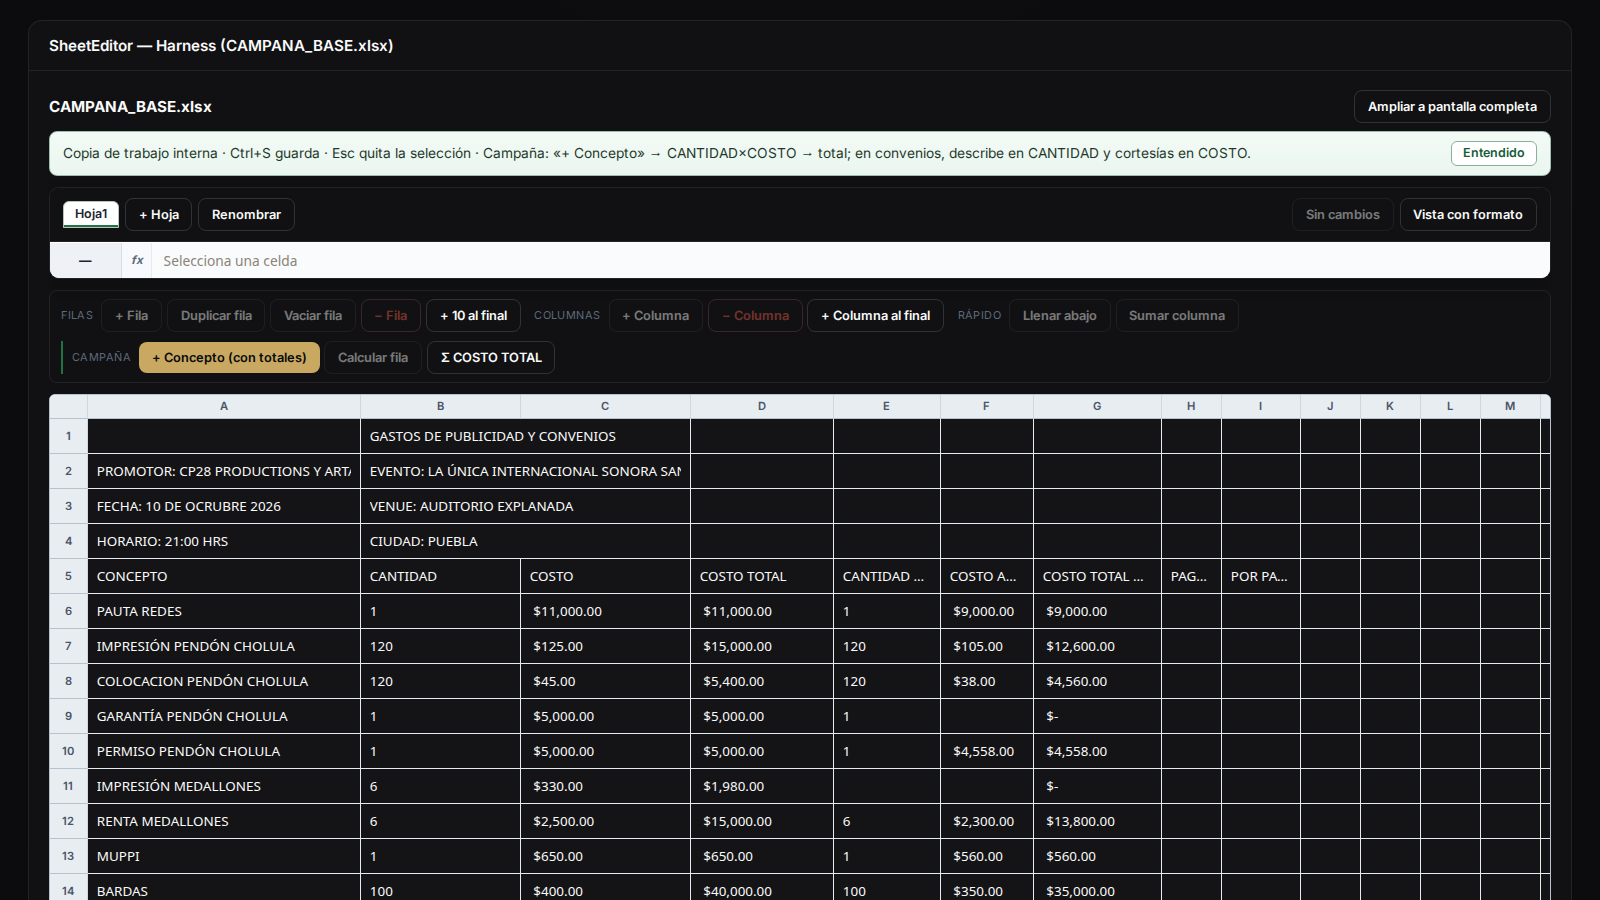
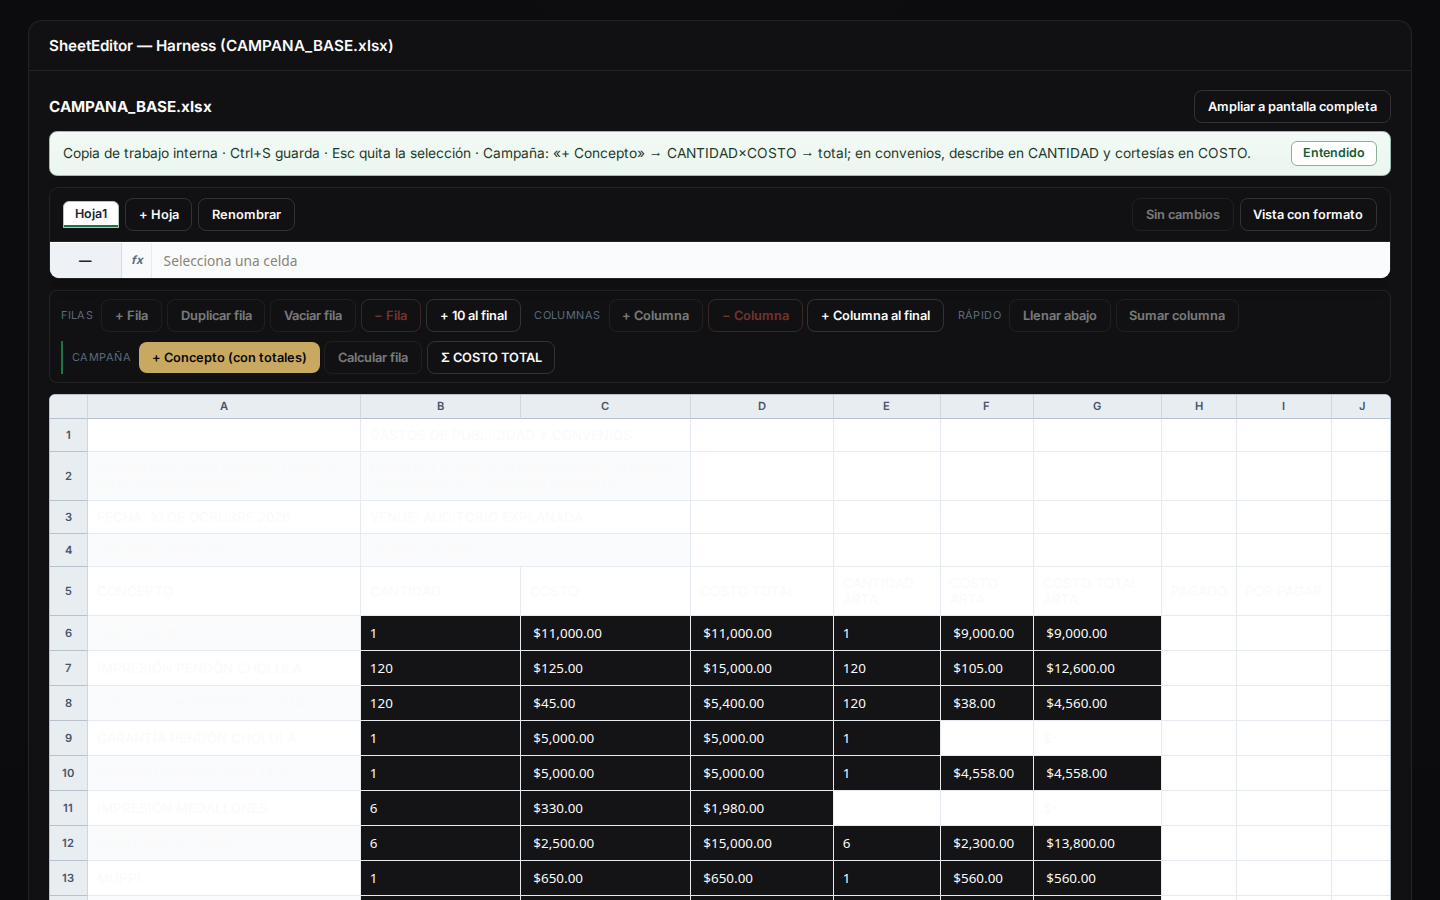
sheet/web: spill long text across empty neighbours; wrap headers when cannot spill; add in-cell display span (no absolute overlays) + mask input when unfocused; tests: assert A2/B2 no ellipsis, row-5 headers wrap, robust bright-pixel check; retake PNGs at 1440x900

diff --git a/apps/web/e2e/hotfix-sheet-editor.spec.ts b/apps/web/e2e/hotfix-sheet-editor.spec.ts
@@ -125,7 +125,7 @@ test.describe('SheetEditor hotfix — dark contrast and values', () => {
       const wrap = document.querySelector('.sheet-wrap') as HTMLElement | null;
       if (wrap) wrap.scrollLeft = 0;
     });
-    await page.setViewportSize({ width: 1600, height: 900 });
+    await page.setViewportSize({ width: 1440, height: 900 });
     await page.waitForTimeout(60);
     await page.screenshot({ path: '../../docs/hotfix-screens/hotfix-recalc.png', fullPage: false });
 
@@ -148,11 +148,83 @@ test.describe('SheetEditor hotfix — dark contrast and values', () => {
     const sumAH = widths.reduce((a, b) => a + b, 0);
     expect(sumAH).toBeLessThanOrEqual(1440);
     expect(widths[1]).toBeLessThanOrEqual(160); // B column (index 1 in A..H slice)
-    // No clipping on key cells
     const noClip = async (sel: string) =>
-      await page.locator(sel).evaluate((el: HTMLElement) => el.scrollWidth <= el.clientWidth + 1);
+      await page.locator(sel).evaluate((el: HTMLElement) => {
+        const td = el.parentElement as HTMLElement | null;
+        const disp = td?.querySelector('.sheet__spilltext') as HTMLElement | null;
+        const target = disp && getComputedStyle(disp).display !== 'none' ? disp : el;
+        return target.scrollWidth <= target.clientWidth + 1;
+      });
+    // A2/B2 long texts fully visible: no ellipsis; A2 should wrap, B2 should spill
+    const noEllipsis = async (sel: string) =>
+      await page.locator(sel).evaluate((el: HTMLElement) => {
+        const td = el.parentElement as HTMLElement | null;
+        const disp = td?.querySelector('.sheet__spilltext') as HTMLElement | null;
+        const target = disp && getComputedStyle(disp).display !== 'none' ? disp : el;
+        return getComputedStyle(target).textOverflow !== 'ellipsis';
+      });
+    // Debug styles for A2/B2 (helps diagnose regressions locally)
+    // eslint-disable-next-line no-console
+    console.log(
+      await page
+        .locator('.sheet__cell[aria-label="Celda A2"]')
+        .evaluate((el: HTMLElement) => ({
+          cls: el.className,
+          ws: getComputedStyle(el).whiteSpace,
+          to: getComputedStyle(el).textOverflow,
+          ov: getComputedStyle(el).overflow,
+        })),
+    );
+    // eslint-disable-next-line no-console
+    console.log(
+      await page
+        .locator('.sheet__cell[aria-label="Celda B2"]')
+        .evaluate((el: HTMLElement) => ({
+          cls: el.className,
+          ws: getComputedStyle(el).whiteSpace,
+          to: getComputedStyle(el).textOverflow,
+          ov: getComputedStyle(el).overflow,
+        })),
+    );
+    expect(await noEllipsis('.sheet__cell[aria-label="Celda A2"]')).toBeTruthy();
+    expect(await noEllipsis('.sheet__cell[aria-label=\"Celda B2\"]')).toBeTruthy();
+    // A2 wraps (content fits inside its own box)
+    expect(await noClip('.sheet__cell[aria-label="Celda A2"]')).toBeTruthy();
+    // B2 spills across empty neighbours (C2..H2 are empty)
+    const emptiesRow2 = await page.evaluate(() => {
+      const take = (col: string) =>
+        (document.querySelector<HTMLInputElement>(`.sheet__cell[aria-label="Celda ${col}2"]`)?.value ?? '').trim();
+      return {
+        C2: take('C'),
+        D2: take('D'),
+        E2: take('E'),
+        F2: take('F'),
+        G2: take('G'),
+        H2: take('H'),
+      };
+    });
+    expect(Object.values(emptiesRow2).every((v) => v === '')).toBeTruthy();
+    // No two non-empty cells in row 2 overlap horizontally
+    const noOverlapRow2 = await page.evaluate(() => {
+      const cells = Array.from(document.querySelectorAll<HTMLInputElement>('tbody tr:nth-of-type(2) .sheet__cell'))
+        .filter((el) => (el.value || '').trim() !== '')
+        .map((el) => el.getBoundingClientRect())
+        .sort((a, b) => a.left - b.left);
+      for (let i = 0; i < cells.length - 1; i++) {
+        if (cells[i].right > cells[i + 1].left + 1) return false;
+      }
+      return true;
+    });
+    expect(noOverlapRow2).toBeTruthy();
+    // No clipping on key cells
     expect(await noClip('.sheet__cell[aria-label="Celda F10"]')).toBeTruthy();
     expect(await noClip('.sheet__cell[aria-label="Celda G7"]')).toBeTruthy();
+    // Row-5 headers wrap instead of ellipsis and are not clipped
+    for (const col of ['B', 'C', 'D', 'E', 'F', 'G', 'H']) {
+      const sel = `.sheet__cell[aria-label="Celda ${col}5"]`;
+      expect(await noEllipsis(sel)).toBeTruthy();
+      expect(await noClip(sel)).toBeTruthy();
+    }
     // Asegura que ciertas celdas muestren los valores correctos (no \"$-\")
     await expect(page.locator('.sheet__cell[aria-label="Celda D6"]')).toHaveValue(/11,000\.00/);
     await expect(page.locator('.sheet__cell[aria-label="Celda D9"]')).toHaveValue(/5,000\.00/);
@@ -161,9 +233,17 @@ test.describe('SheetEditor hotfix — dark contrast and values', () => {
     await expect(page.locator('.sheet__cell[aria-label="Celda G6"]')).toHaveValue(/9,000\.00/);
     // Luminance checks: bright text on dark bg
     const checkBright = async (selector: string) => {
-      const el = page.locator(selector).first();
-      const box = await (await el.elementHandle())!.boundingBox();
-      const shot = await page.screenshot({ clip: box! });
+      const base = page.locator(selector).first();
+      let clipBox = await (await base.elementHandle())!.boundingBox();
+      const dbox = await base.evaluate((el: HTMLElement) => {
+        const td = el.parentElement as HTMLElement | null;
+        const disp = td?.querySelector('.sheet__spilltext') as HTMLElement | null;
+        if (!disp) return null;
+        const r = disp.getBoundingClientRect();
+        return { x: r.x, y: r.y, width: r.width, height: r.height };
+      });
+      if (dbox && (dbox as any).width > 0 && (dbox as any).height > 0) clipBox = dbox as any;
+      const shot = await page.screenshot({ clip: clipBox! });
       const { PNG } = require('pngjs');
       const png = PNG.sync.read(shot);
       let bright = 0;
@@ -180,6 +260,22 @@ test.describe('SheetEditor hotfix — dark contrast and values', () => {
     // Corrida bright cells
     await page.goto(`${E2E_ORIGIN}/dev/sheet-harness?name=CORRIDA_BASE.xlsx&variant=finance`);
     await page.getByRole('table').waitFor({ timeout: 15000 });
+    // Debug A5 render target
+    // eslint-disable-next-line no-console
+    console.log(
+      await page.locator('.sheet__cell[aria-label="Celda A5"]').evaluate((el: HTMLElement) => {
+        const td = el.parentElement as HTMLElement | null;
+        const disp = td?.querySelector('.sheet__spilltext') as HTMLElement | null;
+        const box = el.getBoundingClientRect();
+        const dbox = disp?.getBoundingClientRect();
+        return {
+          input: { ws: getComputedStyle(el).whiteSpace, color: getComputedStyle(el).color, ov: getComputedStyle(el).overflow, box },
+          span: disp
+            ? { ws: getComputedStyle(disp).whiteSpace, color: getComputedStyle(disp).color, display: getComputedStyle(disp).display, dbox }
+            : null,
+        };
+      }),
+    );
     await checkBright('.sheet__cell[aria-label="Celda A5"]');
     await checkBright('.sheet__cell[aria-label="Celda B5"]');
     await checkBright('.sheet__cell[aria-label="Celda D5"]');
@@ -193,7 +289,7 @@ test.describe('SheetEditor hotfix — dark contrast and values', () => {
       const wrap = document.querySelector('.sheet-wrap') as HTMLElement | null;
       if (wrap) wrap.scrollLeft = 0;
     });
-    await page.setViewportSize({ width: 1600, height: 900 });
+    await page.setViewportSize({ width: 1440, height: 900 });
     await page.waitForTimeout(60);
     await page.screenshot({ path: '../../docs/hotfix-screens/hotfix-campana.png', fullPage: false });
 

diff --git a/apps/web/components/files/SheetEditor.tsx b/apps/web/components/files/SheetEditor.tsx
@@ -1248,16 +1248,26 @@ export function SheetEditor({
                           for (let i = merge.s.c + 1; i <= merge.e.c; i += 1) widthPx += colPx[i] || 104;
                         }
                         const display = isSel ? (grid[r]?.[c] ?? '') : row[c];
-                        const { t } = toCellValue(String(display));
-                        const shouldWrap = t === 's' && String(display).length > 24;
+                        const displayStr = String(display ?? '');
+                        const { t } = toCellValue(displayStr);
+                        const rightDisplay = row[c + 1] ?? '';
+                        const rightEmpty = String(rightDisplay ?? '').trim() === '';
+                        // Regla de overflow:
+                        // - Si la celda es texto y su vecino derecho está vacío → puede “derramarse” visualmente.
+                        // - Si no puede derramarse (vecino no vacío) y es texto → envolver (dos líneas posibles).
+                        const allowSpill = !isSel && t === 's' && rightEmpty;
+                        const shouldWrap = t === 's' && (!rightEmpty || displayStr.length > 24);
+                        const extraClass =
+                          allowSpill && !shouldWrap ? ' sheet__cell--spill' : (shouldWrap ? ' sheet__cell--wrap' : '');
+                        const isEmptyDisplay = displayStr.trim() === '';
                         cells.push(
                           <td
                             key={c}
-                            className={isSel ? 'sheet__td--sel' : undefined}
+                            className={`${isSel ? 'sheet__td--sel' : ''} ${isEmptyDisplay ? 'sheet__td--empty' : ''}`.trim() || undefined}
                             colSpan={colSpan}
                           >
                             <input
-                              className={`sheet__cell${shouldWrap ? ' sheet__cell--wrap' : ''}`}
+                              className={`sheet__cell${extraClass}${!isSel && t === 's' ? ' sheet__cell--masked' : ''}`}
                               value={display as string}
                               readOnly={!canEdit}
                               aria-label={`Celda ${colLabel(c)}${r + 1}`}
@@ -1265,6 +1275,17 @@ export function SheetEditor({
                               onChange={(e) => setCell(r, c, e.target.value)}
                               style={{ minWidth: widthPx - 2, width: '100%' }}
                             />
+                            {t === 's' ? (
+                              <span
+                                aria-hidden="true"
+                                className={`sheet__spilltext${
+                                  shouldWrap ? ' sheet__spilltext--wrap' : allowSpill ? ' sheet__spilltext--spill' : ''
+                                }`}
+                                style={{ display: isSel ? 'none' : 'block', minWidth: widthPx - 2 }}
+                              >
+                                {displayStr}
+                              </span>
+                            ) : null}
                           </td>,
                         );
                         if (merge) c = merge.e.c; // saltar celdas cubiertas por el merge

diff --git a/apps/web/styles/globals.scss b/apps/web/styles/globals.scss
@@ -5004,10 +5004,20 @@ body.site-nav-open {
   border-right: 1px solid #e6ebf1;
   border-bottom: 1px solid #e6ebf1;
   background: #fff;
+  position: relative; /* permite control de z-index por celda para evitar solapes */
+  overflow: visible; /* permitir que el contenido de la izquierda se derrame si procede */
 }
 
 .sheet tr:nth-child(even) td {
   background: #fafbfc;
+}
+
+/* Vecinos vacíos: fondo transparente para que el texto derramado sea visible */
+.sheet td.sheet__td--empty {
+  background: transparent !important;
+}
+.sheet tr:nth-child(even) td.sheet__td--empty {
+  background: transparent !important;
 }
 
 .sheet__cell {
@@ -5029,6 +5039,15 @@ body.site-nav-open {
   white-space: normal;
   overflow: visible;
   text-overflow: unset;
+}
+
+/* Derrame visual tipo Excel a través de vecinos vacíos (sin overlays absolutos) */
+.sheet__cell--spill {
+  overflow: visible !important;
+  text-overflow: clip !important;
+  white-space: nowrap !important;
+  position: relative;
+  z-index: 1;
 }
 
 .sheet__cell:focus {
@@ -5055,8 +5074,38 @@ body.site-nav-open {
   color: #6b7785 !important;
 }
 
+/* Oculta el texto del input cuando no está enfocado (lo pinta la capa de display) */
+.sheet__cell--masked {
+  position: absolute !important;
+  opacity: 0 !important;
+  pointer-events: none !important;
+  width: 0 !important;
+  height: 0 !important;
+  padding: 0 !important;
+  margin: 0 !important;
+  border: 0 !important;
+}
+
 /* Display layer: valores visibles y overflow tipo Excel cuando hay espacio */
 /* No overlay: el input pinta el texto en todo momento; reglas de foco arriba */
+
+/* Capa de display simple dentro del mismo <td>, sin posicionamiento absoluto */
+.sheet__spilltext {
+  position: relative;
+  z-index: 1;
+  display: block;
+  padding: 0.5rem 0.55rem;
+  white-space: nowrap;
+  overflow: visible;
+  color: var(--text);
+  pointer-events: none;
+}
+.sheet__spilltext--wrap {
+  white-space: normal;
+}
+.sheet__spilltext--spill {
+  white-space: nowrap;
+}
 
 /* Creación visual de archivos por sección */
 .file-create {
